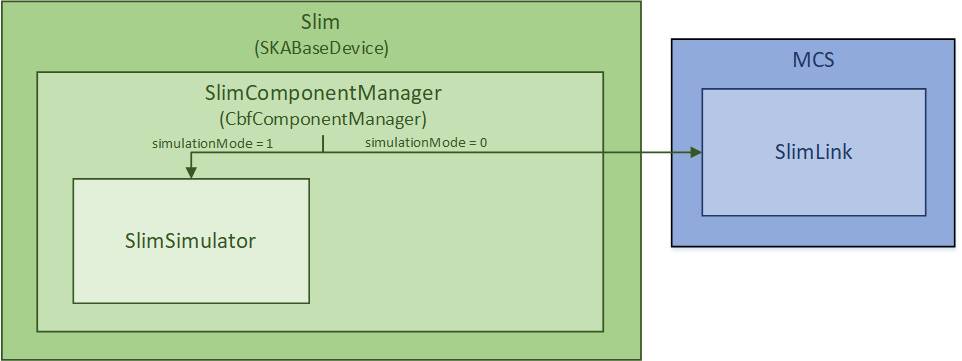
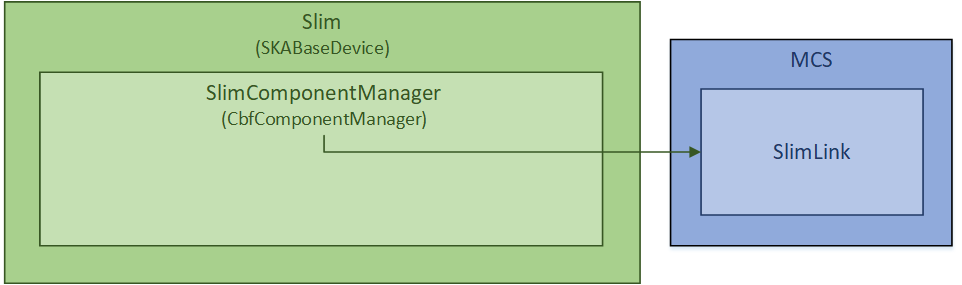
CIP-2006 doc updates, slimlink simulator and integration test updates.

diff --git a/tests/integration/slim_link/SlimLink_test.py b/tests/integration/slim_link/SlimLink_test.py
@@ -13,8 +13,9 @@ from __future__ import annotations
 import os
 
 import pytest
-from ska_tango_base.control_model import AdminMode, LoggingLevel
+from ska_tango_base.control_model import AdminMode, HealthState, LoggingLevel
 from tango import DevState
+from time import sleep
 
 # Standard imports
 
@@ -93,3 +94,28 @@ class TestSlimLink:
         for proxy in test_proxies.talon_lru:
             proxy.adminMode = AdminMode.OFFLINE
             proxy.set_timeout_millis(10000)
+
+
+    def test_VerifyConnection(
+        self: TestSlimLink, test_proxies: pytest.fixture
+    ) -> None:
+        """
+        Verify the component manager can verify a link's health
+
+        :param test_proxies: the proxies test fixture
+        """
+
+        wait_time_s = 3
+        sleep_time_s = 0.1
+
+        device_under_test = test_proxies.slim_link
+        
+        for idx, link in enumerate(device_under_test):
+            link.txDeviceName = "talondx/slim-tx-rx/tx-sim" + str(idx)
+            link.rxDeviceName = "talondx/slim-tx-rx/rx-sim" + str(idx)
+            link.ConnectTxRx()
+            sleep(sleep_time_s)
+            assert link._link_enabled == True
+            sleep(wait_time_s)
+            linkHealth = link.VerifyConnection()
+            assert linkHealth == HealthState.OK

diff --git a/src/ska_mid_cbf_mcs/slim/slim_link_simulator.py b/src/ska_mid_cbf_mcs/slim/slim_link_simulator.py
@@ -43,6 +43,7 @@ class SlimLinkSimulator:
         self._link_enabled = False
         self._read_counters = [0] * 9
         self._block_lost_cdr_lost_count = [0] * 2
+        self._update_health_state = HealthState.UNKNOWN
 
     @property
     def tx_device_name(self: SlimLinkSimulator) -> str:
@@ -163,9 +164,15 @@ class SlimLinkSimulator:
         """
         if not self._link_enabled:
             self._update_health_state(HealthState.UNKNOWN)
-            return ResultCode.OK, "link is healthy"
+            return ResultCode.OK, "link is not active"
+        if self._tx_idle_ctrl_word != self._rx_idle_ctrl_word
+            self._update_health_state(HealthState.FAILED)
+            return ResultCode.OK, "link is not healthy"
+        if self._bit_error_rate > BER_PASS_THRESHOLD
+            self._update_health_state(HealthState.FAILED)
+            return ResultCode.OK, "link is not healthy"
         self._update_health_state(HealthState.OK)
-        return ResultCode.OK, "link is not active"
+        return ResultCode.OK, "link is healthy"
 
     def disconnect_slim_tx_rx(
         self: SlimLinkSimulator,

diff --git a/src/ska_mid_cbf_mcs/slim/slim_link_component_manager.py b/src/ska_mid_cbf_mcs/slim/slim_link_component_manager.py
@@ -198,7 +198,6 @@ class SlimLinkComponentManager(CbfComponentManager):
 
         return self._rx_device_proxy.bit_error_rate
 
-    # FIXME: Do I need this? It's not in SLIM.. does it need to be added to SLIM?
     @property
     def simulation_mode(self):
         """

diff --git a/docs/src/guide/interfaces/mcs_hps_interface.rst b/docs/src/guide/interfaces/mcs_hps_interface.rst
@@ -180,46 +180,7 @@ Note: See `SLIM Tx/Rx Documentation <https://gitlab.drao.nrc.ca/digital-systems/
 
 Ref: `tx_slim.tango.json <https://gitlab.drao.nrc.ca/digital-systems/software/applications/ds-slim-tx-rx/-/blob/main/reg/tx/definition/tx_slim.tango.json>`_
 
-Commands:
-
-- **clear_read_counters** -- Clear the tx read_counters attribute.
-- **phy_reset** -- Toggle the phy reset bit.
-
-Read/Write Attributes:
-
-- **idle_ctrl_word** (ULong64) -- Runtime configuration of the user portion of the idle control word that will be transmitted. The receiving end should be configured to match. Max bit width is 56b.
-
-Read-Only Attributes:
-
-- **debug_counter_width** (ULong) [0..63] -- The width of the counters in this instance. Units of bits. The counters will wrap back to zero when they exceed 2^<counter_width>-1. If zero, then there are no counters.
-- **debug_xcvr_rate** (ULong) [0..255] -- The approximate bit rate of the transceiver. This combined with the counter width can be used to determine the maximum polling period before the counters wrap. Units are 10e9 bits per second (Gbps). Zero means 'unknown'.
-- **debug_sup_user_idle** (Boolean) -- True when the functionality of setting a user idle word is available.
-- **link_occupancy** (Double) [0..1] -- The link occupancy as a percentage (0-1).
-- **generated_idle_ctrl_word** (ULong64) -- The generated idle control word value (that is unique for each link).
-- **read_counters** (ULong64[3]) -- Read the counters after latching and clearing them simultaneously. The counter values are returned as elements in an array. Values: [0]: word count. [1]: packet count. [2]: idle count.
-
 
 **SLIM Rx**
 Ref: `rx_slim.tango.json <https://gitlab.drao.nrc.ca/digital-systems/software/applications/ds-slim-tx-rx/-/blob/main/reg/rx/definition/rx_slim.tango.json>`_
-
-Commands:
-
-- **initialize_connection (DevBoolean)** -- Change the RX input source and perform the connection sequence. Throws an exception if the connection failed. This should be called whenever the input source to the RX changes (whenever it is taken out of loopback/put into loopback). Takes loopback_enable argument.
-- **clear_read_counters** -- Clear the rx read_counters attribute.
-- **phy_reset** -- Toggle the transmit PHY reset.
-
-Read/Write Attributes:
-
-- **idle_ctrl_word** (ULong64) -- The RX idle control word. Writing this will change the idle control word used for error comparison. Reading this register will return the last idle control word captured from the datastream.
-- **debug_alignment_and_lock_status** [0..5] (DevBoolean) -- An alignment and lock status rollup attribute for debug. Indicated read only values will be ignored on attribute writes. Values: [0]: 66b block alignment lost. Read '1' = alignment lost. Write '1' to clear. [1]: 66b block aligned. Read '1' = aligned. Read only. [2]: Clock data recovery lock lost. Read '1' = CDR lock lost. Write '1' to clear. [3]: Clock data recovery locked. Read '1' = CDR locked. Read only.
-
-Read-Only Attributes:
-
-- **debug_counter_width** (ULong) [0..63] -- The width of the counters in this instance. Units of bits. The counters will wrap back to zero when they exceed 2^<counter_width>-1. If zero, then there are no counters.
-- **debug_xcvr_rate** (ULong) [0..255] -- The approximate bit rate of the transceiver. This combined with the counter width can be used to determine the maximum polling period before the counters wrap. Units are 10e9 bits per second (Gbps). Zero means 'unknown'.
-- **debug_sup_user_idle** (Boolean) -- True when the functionality of setting a user idle word is available.
-- **bit_error_rate** (Double) -- The bit error rate in 66b-word-errors per second.
-- **link_occupancy** (Double) [0..1] -- The link occupancy as a percentage (0-1).
-- **read_counters** (ULong64[6]) -- Read the counters after latching and clearing them simultaneously. The counter values are returned as elements in an array. Values: [0]: word count. [1]: packet count. [2]: idle count. [3]: idle error count. [4]: block lost count. [5]: CDR lost count.
-
 

diff --git a/docs/src/guide/developer/code_design_notes.rst b/docs/src/guide/developer/code_design_notes.rst
@@ -109,10 +109,11 @@ and monitoring important device attributes, such as each link's HealthState. The
 device’s ConfigureCommand triggers a call to ``SlimComponentManager.configure``, which 
 initializes ``SlimLink`` devices as described in a YAML configuration file.
 
-The ``Slim`` device can operated in either simulation mode or not. When in simulation
-mode (this is the default), simulator classes are used in place of communication
-with the real Talon-DX Tango devices. This allows testing of the MCS without
-any connection to the hardware.
+Since the ``SlimLink`` component that the ``Slim`` device controls is software within MCS, it does not 
+require a simulator. Whether being tested or not, the ``Slim`` device always controls the ``SlimLink`` 
+MCS devices. It should be noted, however, that the ``Slim`` device still implements a simulation mode,
+and it's sole purpose is to set the child ``SlimLink`` device's simulation mode. Therefore, simulation mode 
+is set globally within a mesh and cannot be toggled per link.
 
 .. figure:: ../../diagrams/slim-device.png
    :align: center
@@ -128,7 +129,7 @@ ConnectTxRxCommand triggers a call to ``SlimLinkComponentManager.connect_slim_tx
 initializes the target HPS ``ds-slim-tx-rx`` devices by taking them out of serial loopback 
 mode, syncing idle control words, etc.
 
-The ``SlimLink`` device can operated in either simulation mode or not. When in simulation
+The ``SlimLink`` device can operate in either simulation mode or not. When in simulation
 mode (this is the default), simulator classes are used in place of communication
 with the real Talon-DX Tango devices. This allows testing of the MCS without
 any connection to the hardware.
